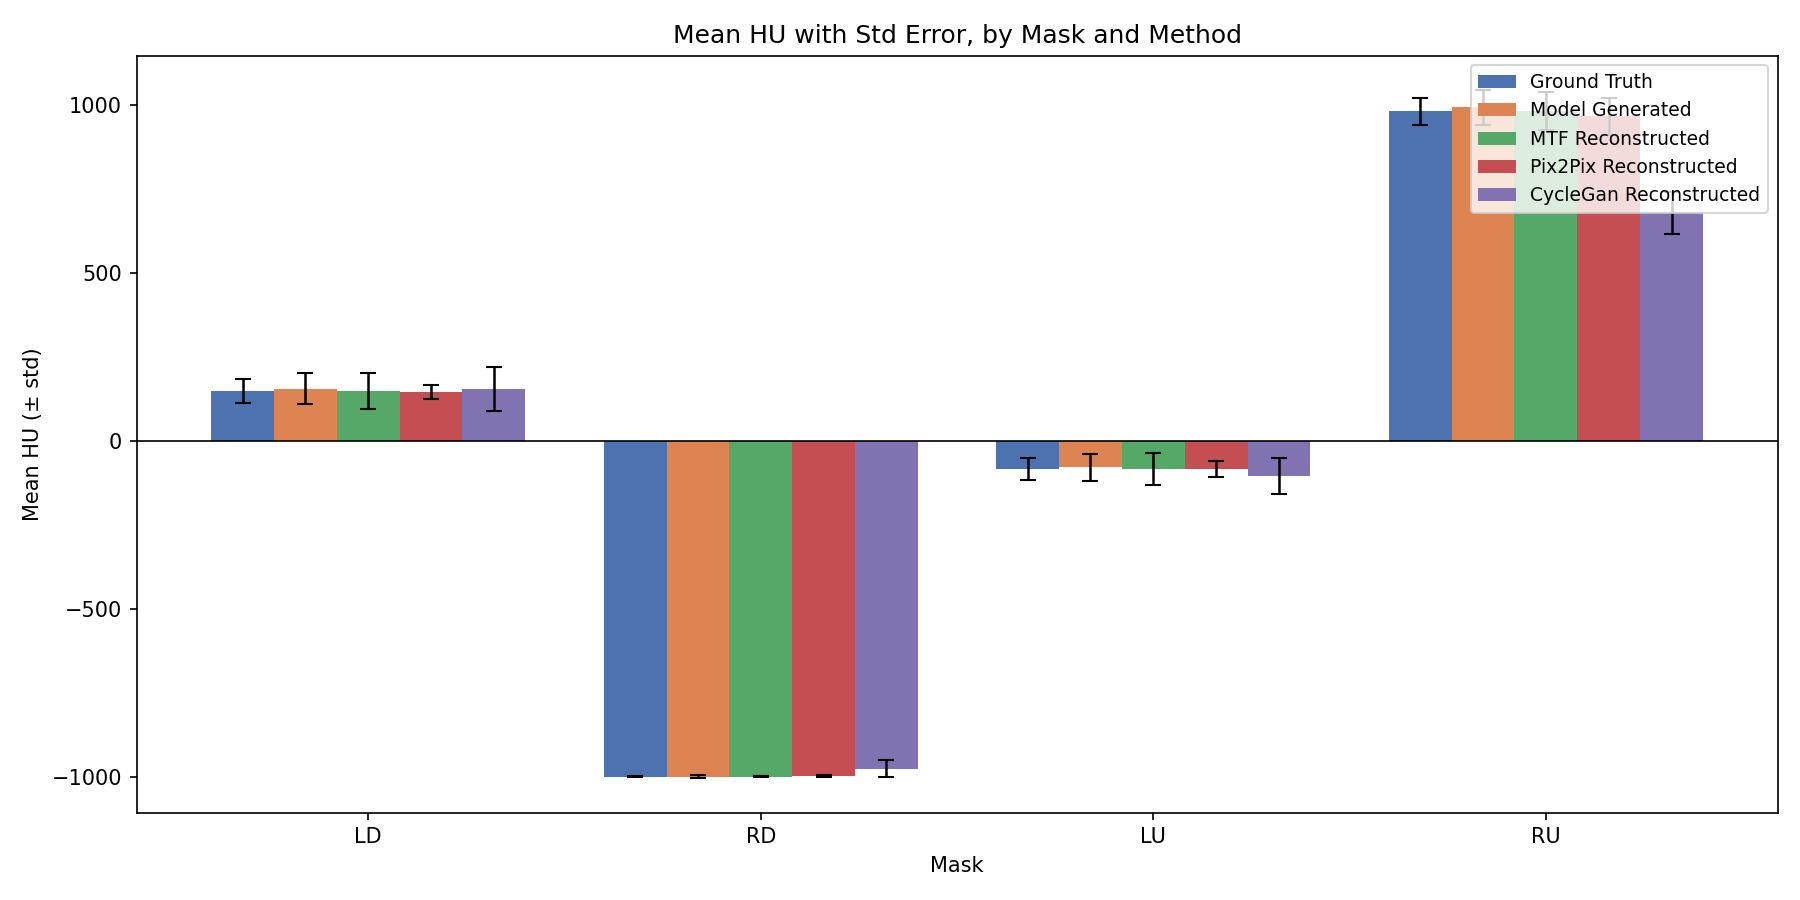
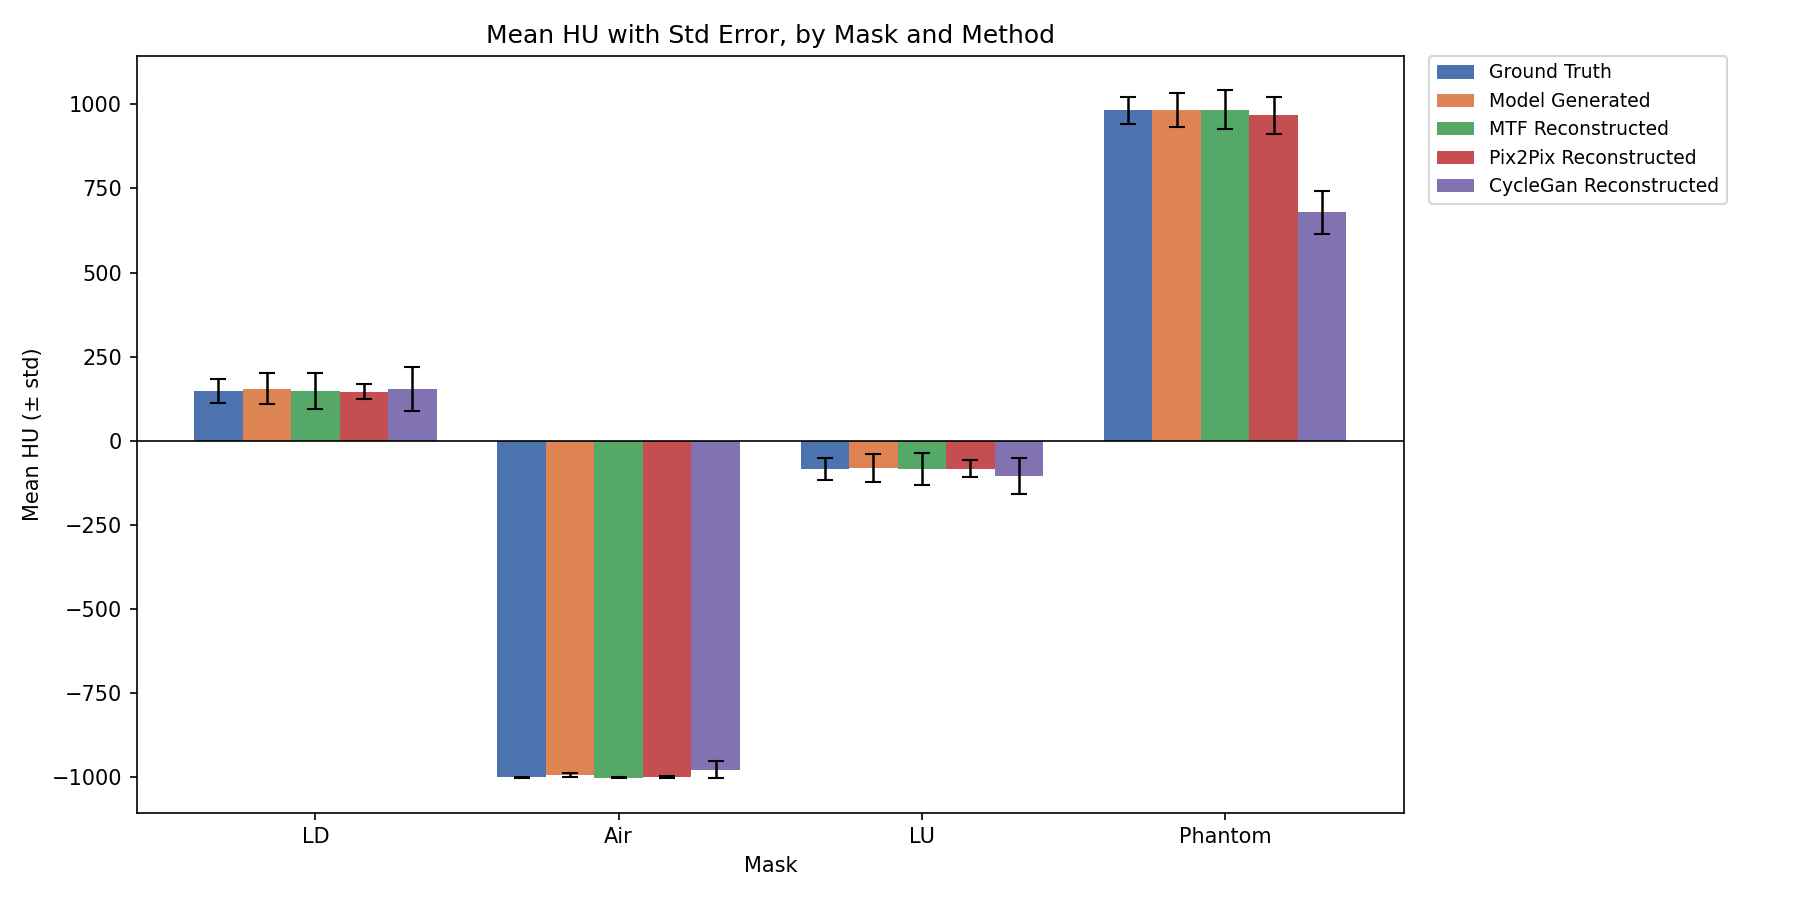
plot changes

diff --git a/Code/mask_dicoms.py b/Code/mask_dicoms.py
@@ -69,7 +69,7 @@ mask_paths = ["/home/cxv166/PhantomTesting/Code/masks/Mask_LD.tif",
               "/home/cxv166/PhantomTesting/Code/masks/Mask_LU.tif",
               "/home/cxv166/PhantomTesting/Code/masks/Mask_RU.tif"]
 
-mask_names = ['LD', 'RD', 'LU', 'RU']
+mask_names = ['LD', 'Air', 'LU', 'Phantom']
 
 masks = [tifffile.imread(p) for p in mask_paths]
 
@@ -166,7 +166,6 @@ ds_cyclegan, arr_cyclegan = load_and_normalize_dicom(cyclegan_reconstructed_path
 cyclegan_reconstructed_results = compute_region_stats(
     arr_cyclegan, masks, mask_names, label='CycleGan Reconstructed'
 )
-
 plot_dir = '/home/cxv166/PhantomTesting/Code/plots'
 os.makedirs(plot_dir, exist_ok=True)
 
@@ -206,9 +205,10 @@ ax.set_xlabel('Mask')
 ax.set_ylabel('Mean HU (\u00b1 std)')
 ax.set_title('Mean HU with Std Error, by Mask and Method')
 ax.axhline(0, color='black', linewidth=0.8)
-ax.legend(loc='upper right', fontsize=9)
+ax.legend(loc='upper left', bbox_to_anchor=(1.02, 1.0), fontsize=9, borderaxespad=0)
 
 fig.tight_layout()
+fig.subplots_adjust(right=0.78)  # make room for the legend outside the axes
 out_path = os.path.join(plot_dir, 'all_masks_mean_std_comparison.png')
 fig.savefig(out_path, dpi=150)
 plt.close(fig)
